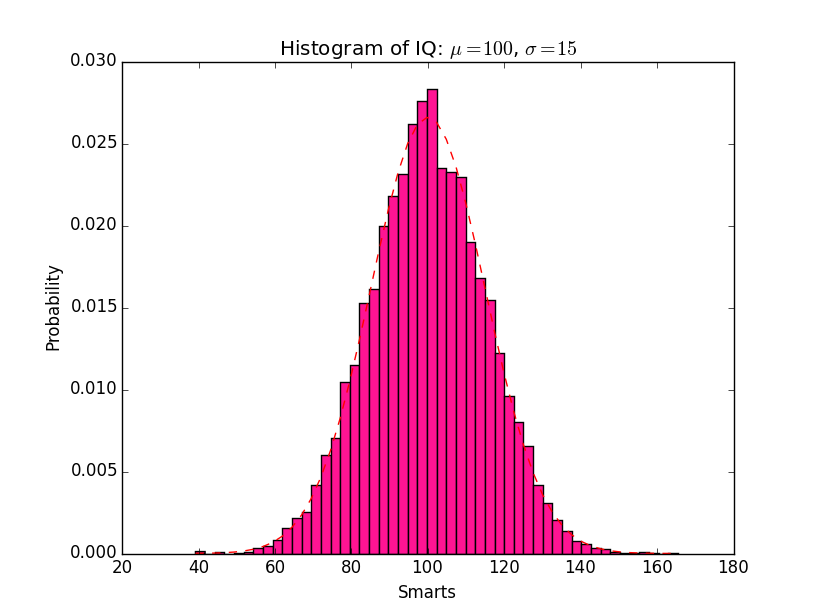
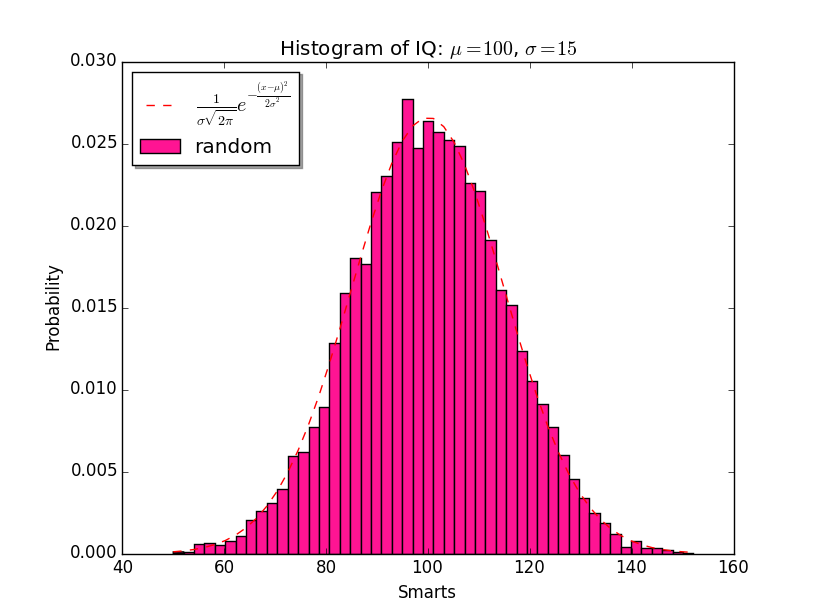
Improve the TeX example.

diff --git a/source/_sample/mpl/tex.py b/source/_sample/mpl/tex.py
@@ -1,11 +1,15 @@
 #!/usr/bin/env python
 # -*- coding: utf-8 -*-
-"""You can obtain the original script file from:
+"""tex.py: Demonstrate how to use TeX notation in Matplotlib.
+
+You can obtain the original script file from:
 From http://matplotlib.org/mpl_examples/statistics/histogram_demo_features.py
 """
 import numpy as np
 import matplotlib.mlab as mlab
 import matplotlib.pyplot as plt
+
+NPDF_TEX = r'$\frac{1}{\sigma \sqrt{2 \pi}} e^{-\frac{(x - \mu)^{2}}{2 \sigma ^{2}}}$'
 
 # example data
 mu = 100 # mean of distribution
@@ -15,14 +19,15 @@ x = mu + sigma * np.random.randn(10000)
 num_bins = 50
 # the histogram of the data
 n, bins, patches = plt.hist(
-    x, num_bins, normed=1, facecolor='deeppink')
+    x, num_bins, normed=1, facecolor='deeppink', label='random')
 
 # add a 'best fit' line
 y = mlab.normpdf(bins, mu, sigma)
-plt.plot(bins, y, 'r--')
+plt.plot(bins, y, 'r--', label=NPDF_TEX)
 plt.xlabel('Smarts')
 plt.ylabel('Probability')
 plt.title(r'Histogram of IQ: $\mu={}$, $\sigma={}$'.format(mu, sigma))
+plt.legend(loc='upper left', shadow=True)
 
 # Tweak spacing to prevent clipping of ylabel
 plt.subplots_adjust(left=0.15)
